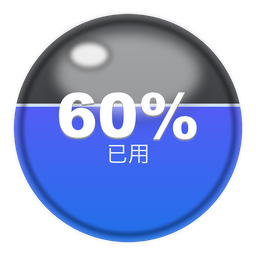
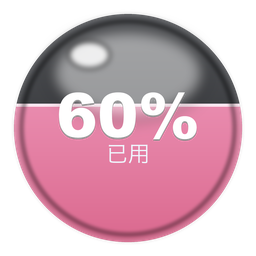
feat: round Google quota percentages and switch orb accent to light pink in v1.2.5

diff --git a/apps/google/scripts/smoke-google-ui.js b/apps/google/scripts/smoke-google-ui.js
@@ -126,10 +126,10 @@ require(${JSON.stringify(path.join(bundle, "Contents/Resources/app.asar/src/main
       assert.equal(await main.eval("document.querySelector('#quotaGroupName').textContent"), group.name);
       const values = await main.eval("['primaryText','secondaryText'].map(id=>document.getElementById(id).textContent)");
       for (const [i, window] of [group.primary,group.secondary].entries()) {
-        if (window) assert.ok(values[i].startsWith(window.usedPercent.toFixed(2)+'%'), values[i]);
+        if (window) assert.ok(values[i].startsWith(Math.round(window.usedPercent)+'%'), values[i]);
         else assert.equal(values[i], '未提供');
       }
-      assert.equal(await main.eval("document.querySelector('#remaining').textContent"), (group.primary || group.secondary).usedPercent.toFixed(2)+'%');
+      assert.equal(await main.eval("document.querySelector('#remaining').textContent"), Math.round((group.primary || group.secondary).usedPercent)+'%');
       assert.equal(await main.eval("document.querySelector('#paceBadge').textContent"), await main.eval("t('status.'+state.quota.paceAdvice.overall.status)"));
       assert.ok(await main.eval("['paceTitle','quotaGroupName','paceBadge'].map(id=>document.getElementById(id).getBoundingClientRect()).every((r,i,a)=>r.right<=innerWidth && r.left>=0 && (!i || r.left>=a[i-1].right))"), 'Heading overlaps');
       assert.ok(await main.eval("document.querySelector('footer').getBoundingClientRect().bottom <= innerHeight"));

diff --git a/packages/shared/styles.css b/packages/shared/styles.css
@@ -1531,10 +1531,10 @@ body[data-view="compact"] .compact-shell {
 }
 
 /* Opt-in Google model group selector, within the existing panel dimensions. */
-.quota-group-name { min-width: 0; font-size: 11px; color: #b8cbef; white-space: nowrap; }
+.quota-group-name { min-width: 0; font-size: 11px; color: #f7b5d1; white-space: nowrap; }
 .quota-group-name[hidden] { display: none; }
 body[data-quota-groups="true"] .pace-heading { gap: 5px; }
 body[data-quota-groups="true"] .pace-heading > :first-child { flex-shrink: 0; }
 body[data-quota-groups="true"] .pace-badge { flex-shrink: 0; }
 body[data-quota-groups="true"] .liquid-meter { cursor: pointer; -webkit-app-region: no-drag; }
-body[data-quota-groups="true"] .liquid-meter:focus-visible { outline: 2px solid #8ab4ff; outline-offset: 3px; }
+body[data-quota-groups="true"] .liquid-meter:focus-visible { outline: 2px solid #f4a6c7; outline-offset: 3px; }

diff --git a/apps/google/src/app-config.js b/apps/google/src/app-config.js
@@ -3,16 +3,16 @@
 window.APP_CONFIG = {
   brandName: "Google 主帳號",
   quotaGroupCycling: true,
-  percentDigits: 2,
+  percentDigits: 0,
   compactThemeStorageKey: "googleUsageCompactTheme",
   emptyErrorCopyKey: "authRequired",
 
-  // mini bar / HUD / 玻璃球的主色。Google 經典深藍與 Gemini 靛紫，一眼分得出來。
+  // mini bar / HUD / 玻璃球的主色。淺粉紅系列。
   accent: {
-    weekly: "#1A73E8",
-    weeklyStrong: "#4285F4",
-    short: "#7C4DFF",
-    shortStrong: "#B388FF"
+    weekly: "#D9658B",
+    weeklyStrong: "#EB82A3",
+    short: "#F4A6C7",
+    shortStrong: "#FCE4EE"
   },
 
   copy: {

diff --git a/apps/google/scripts/verify-profiles.js b/apps/google/scripts/verify-profiles.js
@@ -84,7 +84,7 @@ function verifyAppConfigOverride() {
 
   const plain = loadAppConfig("google", "");
   assert.equal(plain.copy.zh.brand, "Google 主帳號");
-  assert.equal(plain.accent.weekly, "#1A73E8");
+  assert.equal(plain.accent.weekly, "#D9658B");
 }
 
 function verifyReopenHooks() {

diff --git a/apps/google/scripts/make-orb-icon.py b/apps/google/scripts/make-orb-icon.py
@@ -39,9 +39,9 @@ img = Image.alpha_composite(img, shadow)
 # --- body: dark charcoal sphere ---
 body = vgrad((S, S), (86, 88, 92), (30, 31, 34)).convert("RGBA")
 
-# --- Google Blue / Indigo liquid in the lower FILL portion ---
-# Top: (102, 157, 246) #669DF6, Bot: (26, 115, 232) #1A73E8
-liquid = vgrad((S, S), (124, 77, 255), (26, 115, 232)).convert("RGBA")
+# --- Google Light Pink liquid in the lower FILL portion ---
+# Top: (244, 166, 199) #F4A6C7, Bot: (217, 101, 139) #D9658B
+liquid = vgrad((S, S), (244, 166, 199), (217, 101, 139)).convert("RGBA")
 lmask = Image.new("L", (S, S), 0)
 ld = ImageDraw.Draw(lmask)
 water_y = int(box[1] + d * (1 - FILL))
@@ -51,7 +51,7 @@ body.paste(liquid, (0, 0), lmask)
 # meniscus highlight line
 ml = ImageDraw.Draw(body)
 ml.rectangle((0, water_y - int(S*0.006), S, water_y + int(S*0.006)),
-             fill=(210, 227, 252, 255))
+             fill=(254, 230, 240, 255))
 
 sphere = Image.new("RGBA", (S, S), (0, 0, 0, 0))
 sphere.paste(body, (0, 0), mask)
